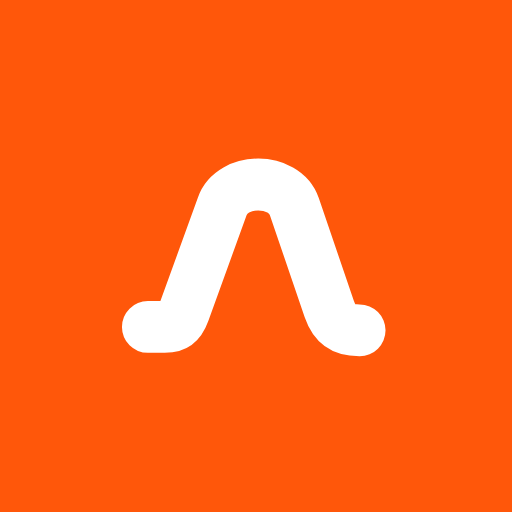
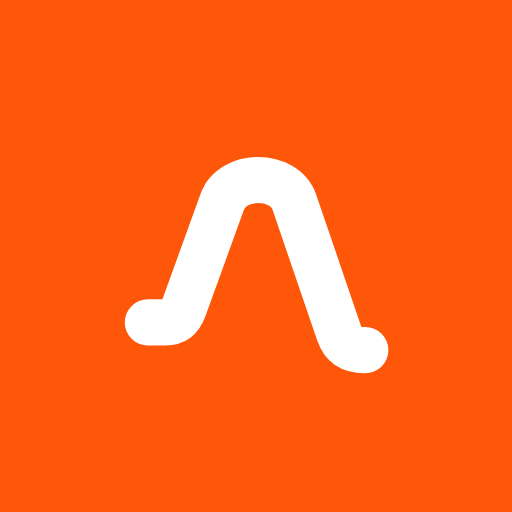
Логотип: «Л» чуть тоньше; на иконке правая ножка «Л» ниже левой
Claude-Session: https://claude.ai/code/session_01C5CphNpDVRWo972NeZpS75

diff --git a/styles/layout/header.css b/styles/layout/header.css
@@ -52,7 +52,7 @@
   stroke-linecap: round;
   stroke-linejoin: round;
 }
-.logo__route--l { stroke-width: 230; } /* «Л» толщиной с буквы — часть слова и знак в иконках */
+.logo__route--l { stroke-width: 205; } /* «Л» толщиной с буквы — часть слова и знак в иконках */
 .logo__dot { fill: var(--primary); }
 @media (min-width: 576px) {
   .logo {
